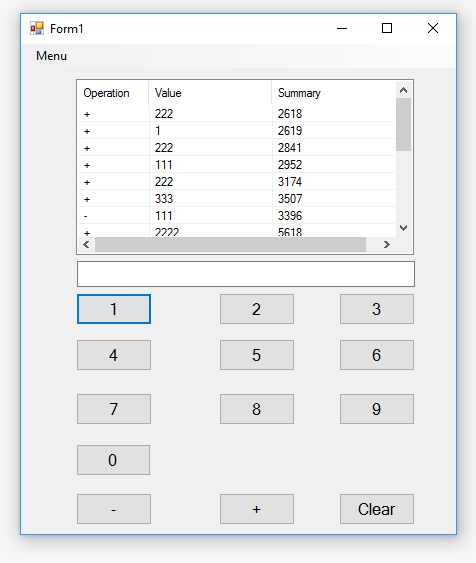
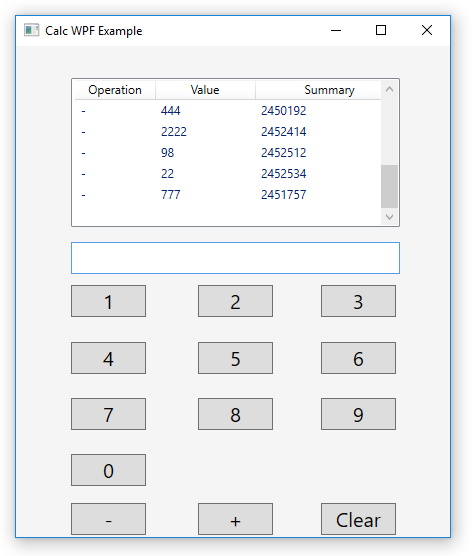
Added regex, cleaned up visuals

diff --git a/CalcWPFExample/MainWindow.xaml b/CalcWPFExample/MainWindow.xaml
@@ -5,38 +5,57 @@
         xmlns:mc="http://schemas.openxmlformats.org/markup-compatibility/2006"
         xmlns:local="clr-namespace:CalcWPFExample"
         mc:Ignorable="d"
-        Title="MainWindow" Height="530" Width="450"
+        Title="Calc WPF Example" Height="530" Width="450"
+        Background="WhiteSmoke"
         Loaded="MainWindow_Loaded"
         Unloaded="MainWindow_Unloaded">
+    
+    <Window.Resources>
+        <Style TargetType="{x:Type Control}" x:Key="baseStyle">
+            <Setter Property="FontSize" Value="20" />
+        </Style>
+        <Style TargetType="{x:Type Control}" x:Key="listStyle">
+            <Setter Property="FontSize" Value="12" />
+        </Style>
+        <Style TargetType="{x:Type Button}" BasedOn="{StaticResource baseStyle}"></Style>
+        <Style TargetType="{x:Type Label}" BasedOn="{StaticResource baseStyle}"></Style>
+        <Style TargetType="{x:Type TextBox}" BasedOn="{StaticResource baseStyle}"></Style>
+        <Style TargetType="{x:Type ListView}" BasedOn="{StaticResource listStyle}"></Style>
+    </Window.Resources>
+    
     <Grid>
+
         <Grid.ColumnDefinitions>
             <ColumnDefinition Width="269*"/>
             <ColumnDefinition Width="248*"/>
         </Grid.ColumnDefinitions>
+
         <Button x:Name="button1" Click="button1_Click" Content="1" HorizontalAlignment="Left" Margin="55,239,0,0" VerticalAlignment="Top" Width="75" Height="32"/>
-        <Button x:Name="button2" Click="button2_Click" Content="2" HorizontalAlignment="Left" Margin="198,239,0,0" VerticalAlignment="Top" Width="75" Height="32" Grid.ColumnSpan="2"/>
-        <Button x:Name="button3"  Click="button3_Click" Content="3" HorizontalAlignment="Left" Margin="79,239,0,0" VerticalAlignment="Top" Width="75" Height="32" Grid.Column="1"/>
+        <Button x:Name="button2" Click="button2_Click" Content="2" HorizontalAlignment="Left" Margin="182,239,0,0" VerticalAlignment="Top" Width="75" Height="32" Grid.ColumnSpan="2"/>
+        <Button x:Name="button3"  Click="button3_Click" Content="3" HorizontalAlignment="Left" Margin="79,239,0,0" 
+          VerticalAlignment="Top" Width="75"
+          Height="32" Grid.Column="1"/>
         <Button x:Name="button4" Click="button4_Click" Content="4" HorizontalAlignment="Left" Margin="55,296,0,0" VerticalAlignment="Top" Width="75" Height="32"/>
-        <Button x:Name="button5" Click="button5_Click" Content="5" HorizontalAlignment="Left" Margin="198,296,0,0" VerticalAlignment="Top" Width="75" Height="32" Grid.ColumnSpan="2"/>
+        <Button x:Name="button5" Click="button5_Click" Content="5" HorizontalAlignment="Left" Margin="182,296,0,0" VerticalAlignment="Top" Width="75" Height="32" Grid.ColumnSpan="2"/>
         <Button x:Name="button6" Click="button6_Click" Content="6" HorizontalAlignment="Left" Margin="79,296,0,0" VerticalAlignment="Top" Width="75" Height="32" Grid.Column="1"/>
         <Button x:Name="button7" Click="button7_Click" Content="7" HorizontalAlignment="Left" Margin="55,352,0,0" VerticalAlignment="Top" Width="75" Height="32"/>
-        <Button x:Name="button8" Click="button8_Click" Content="8" HorizontalAlignment="Left" Margin="198,352,0,0" VerticalAlignment="Top" Width="75" Height="32" Grid.ColumnSpan="2"/>
+        <Button x:Name="button8" Click="button8_Click" Content="8" HorizontalAlignment="Left" Margin="182,352,0,0" VerticalAlignment="Top" Width="75" Height="32" Grid.ColumnSpan="2"/>
         <Button x:Name="button9" Click="button9_Click" Content="9" HorizontalAlignment="Left" Margin="79,352,0,0" VerticalAlignment="Top" Width="75" Height="32" Grid.Column="1"/>
         <Button x:Name="button0" Click="button0_Click" Content="0" HorizontalAlignment="Left" Margin="55,408,0,0" VerticalAlignment="Top" Width="75" Height="32"/>
         <Button x:Name="buttonMinus" Click="buttonMinus_Click" Content="-" HorizontalAlignment="Left" Margin="55,457,0,0" VerticalAlignment="Top" Width="75" Height="32"/>
-        <Button x:Name="buttonPlus" Click="buttonPlus_Click" Content="+" HorizontalAlignment="Left" Margin="198,457,0,0" VerticalAlignment="Top" Width="75" Height="32" Grid.ColumnSpan="2"/>
+        <Button x:Name="buttonPlus" Click="buttonPlus_Click" Content="+" HorizontalAlignment="Left" Margin="182,457,0,0" VerticalAlignment="Top" Width="75" Height="32" Grid.ColumnSpan="2"/>
         <Button x:Name="buttonClear" Click="buttonClear_Click" Content="Clear" HorizontalAlignment="Left" Margin="79,457,0,0" VerticalAlignment="Top" Width="75" Height="32" Grid.Column="1"/>
         <TextBox x:Name="textBox1" HorizontalAlignment="Left" Margin="55,196,0,0" TextWrapping="Wrap" VerticalAlignment="Top" Width="329" Height="32" Grid.ColumnSpan="2"/>
-        <ListView x:Name="listView1" HorizontalAlignment="Left" Height="149" Margin="55,26,0,0" VerticalAlignment="Top" Width="329" Grid.ColumnSpan="2">
+        <ListView x:Name="listView1" HorizontalAlignment="Left" Height="149" Margin="55,32,0,0" VerticalAlignment="Top" Width="329" Grid.ColumnSpan="2" ScrollViewer.HorizontalScrollBarVisibility="Disabled">
             <ListView.View>
                 <GridView>
 
                     <GridViewColumn Header="Operation" DisplayMemberBinding="{Binding Operation}" Width="80"/>
-                    
+
                     <GridViewColumn Header="Value" DisplayMemberBinding="{Binding Value}" Width="100"/>
-                    
+
                     <GridViewColumn Header="Summary" DisplayMemberBinding="{Binding Summary}" Width="149"/>
-                
+
                 </GridView>
             </ListView.View>
         </ListView>

diff --git a/CalcWPFExample/MainWindow.xaml.cs b/CalcWPFExample/MainWindow.xaml.cs
@@ -31,17 +31,7 @@ namespace CalcWPFExample
         public MainWindow()
         {
             InitializeComponent();
-
-            // using System.Windows.Media;
-            //textBox1.Background = Brushes.Blue;
-            //textBox1.Foreground = Brushes.Yellow;
-
-//            MainWindow.BackgroundProperty = Brushes.White;
-//            textBox1.Background = new SolidColorBrush(Color.FromArgb(0xFF, 0xE0, 0xE0, 0xE0));
-  //          textBox1.Background = new SolidColorBrush(Color.FromArgb(0xFF, 0xFF, 0, 0));
-    //        textBox1.Background = System.Windows.SystemColors.MenuHighlightBrush;
         }
-
 
         public void MainWindow_Loaded(object sender, EventArgs e)
         {
@@ -52,13 +42,6 @@ namespace CalcWPFExample
         {
             saveMemory();
         }
-
-        private void label1_Click(object sender, EventArgs e)
-        {
-
-        }
-
-    
 
         private void button1_Click(object sender, RoutedEventArgs e)
         {
@@ -110,26 +93,36 @@ namespace CalcWPFExample
             this.textBox1.Text += "0";
         }
 
+        private void giveCleanFocusForInput()
+        {
+            this.textBox1.Text = "";
+            this.textBox1.Focus();
+
+            this.listView1.Items.MoveCurrentToLast();
+            this.listView1.ScrollIntoView(this.listView1.Items.CurrentItem);
+        }
+
         private void buttonMinus_Click(object sender, RoutedEventArgs e)
         {
             try
             {
-                int num = Int32.Parse(this.textBox1.Text.ToString());
-                this.sum -= num;
-                string summary = this.sum.ToString();
-               // var row = new { Operation = "-", Value = this.textBox1.Text, Summary = summary };
-                var row = new CalcResultsFormat()
-                { Operation = "-", Value = this.textBox1.Text, Summary = summary };
+                if (CalcValidate.ValidateValueIsNumeric(this.textBox1.Text))
+                {
+                    int num = Int32.Parse(this.textBox1.Text.ToString());
+                    this.sum -= num;
+                    string summary = this.sum.ToString();
+                    var row = new CalcResultsFormat()
+                    { Operation = "-", Value = this.textBox1.Text, Summary = summary };
 
-                this.listView1.Items.Add(row);
+                    this.listView1.Items.Add(row);
+                }
             }
             catch (FormatException ev)
             {
                 Debug.WriteLine("FormatException " + ev.Message);
             }
 
-            this.textBox1.Text = "";
-            this.textBox1.Focus();
+            this.giveCleanFocusForInput();
 
             this.saveMemory();
         }
@@ -138,14 +131,16 @@ namespace CalcWPFExample
         {
             try
             {
-                int num = Int32.Parse(this.textBox1.Text.ToString());
-                this.sum += num;
-                string summary = this.sum.ToString();
+                if (CalcValidate.ValidateValueIsNumeric(this.textBox1.Text))
+                {
+                    int num = Int32.Parse(this.textBox1.Text.ToString());
+                    this.sum += num;
+                    string summary = this.sum.ToString();
 
-             //   var row = new { Operation = "-", Value = this.textBox1.Text, Summary = summary };
-                var row = new CalcResultsFormat()
-                { Operation = "-", Value = this.textBox1.Text, Summary = summary };
-                this.listView1.Items.Add(row);
+                    var row = new CalcResultsFormat()
+                    { Operation = "-", Value = this.textBox1.Text, Summary = summary };
+                    this.listView1.Items.Add(row);
+                }
             }
             catch (FormatException ev)
             {
@@ -156,8 +151,7 @@ namespace CalcWPFExample
                 Debug.WriteLine("OverflowException " + ev.Message);
             }
 
-            this.textBox1.Text = "";
-            this.textBox1.Focus();
+            this.giveCleanFocusForInput();
 
             this.saveMemory();
         }
@@ -167,39 +161,9 @@ namespace CalcWPFExample
             this.clearMemory();
         }
 
-        private void buttonEqual_Click(object sender, EventArgs e)
-        {
-          //  this.buttonPlus_Click(sender, e);
-        }
-
         private void textBox_TextChanged(object sender, EventArgs e)
         {
 
-        }
-
-        /// <summary>
-        /// 
-        /// </summary>
-        /// <param name="sender"></param>
-        /// <param name="e"></param>
-        private void resetToolStripMenuItem_Click(object sender, EventArgs e)
-        {
-            this.sum = 0;
-            this.textBox1.Text = "";
-
-            this.clearListView();
-
-            this.textBox1.Focus();
-        }
-
-        /// <summary>
-        /// 
-        /// </summary>
-        /// <param name="sender"></param>
-        /// <param name="e"></param>
-        private void clearToolStripMenuItem_Click(object sender, EventArgs e)
-        {
-            this.clearMemory();
         }
 
         /// <summary>
@@ -272,7 +236,6 @@ namespace CalcWPFExample
 
                     try
                     {
-                      //  var row = new { Operation = els[0], Value = els[1], Summary = els[2] };
                         var row = new CalcResultsFormat()
                         { Operation = els[0], Value = els[1], Summary = els[2] };
                         this.listView1.Items.Add(row);
@@ -288,9 +251,9 @@ namespace CalcWPFExample
             {
                 // catch XmlSerializer
                 Debug.WriteLine("InvalidOperationException " + ex.Message);
-
             }
 
+            this.giveCleanFocusForInput();
         }
 
         /// <summary>
@@ -305,13 +268,6 @@ namespace CalcWPFExample
             memory.history = new List<string>();
             foreach (CalcResultsFormat item in listView1.Items)
             {
-             //   CalcResultsFormat r = (CalcResultsFormat)item;
-               // Debug.WriteLine(item.Operation);
-              //  Debug.WriteLine(item.Value);
-              //  Debug.WriteLine(item.Summary);
-                //  item.
-                //    new { Operation = "-", Value = this.textBox1.Text, Summary = summary };
-               // Debug.Assert(item != null);
                 string line = item.Operation + "," + item.Value + "," + item.Summary;
                 memory.history.Add(line);
             }

diff --git a/CalcWPFExample/CalcStorageFormat.cs b/CalcWPFExample/CalcStorageFormat.cs
@@ -1,7 +1,9 @@
 using System;
 using System.Collections.Generic;
+using System.Diagnostics;
 using System.Linq;
 using System.Text;
+using System.Text.RegularExpressions;
 using System.Threading.Tasks;
 
 namespace CalcWPFExample.Models
@@ -18,4 +20,32 @@ namespace CalcWPFExample.Models
         public string Value { get; set; }
         public string Summary { get; set; }
     }
+
+    public class CalcValidate
+    {
+
+        public static Boolean ValidateValueIsNumeric(string suspectNumber)
+        {
+            string pattern = @"^-?\d+(,\d+)*(\.\d+(e\d+)?)?$";
+            Regex rgx = new Regex(pattern, RegexOptions.IgnoreCase);
+            MatchCollection matches = rgx.Matches(suspectNumber);
+
+#if DEBUG
+            if (matches.Count > 0)
+            {
+                Debug.WriteLine("{0} ({1} matches):", suspectNumber, matches.Count);
+                foreach (Match match in matches)
+                    Debug.WriteLine("   " + match.Value);
+            }
+            else
+            {
+                Debug.WriteLine("No Matches");
+            }
+#endif
+
+            return (matches.Count > 0);
+        }
+
+    }
+
 }
